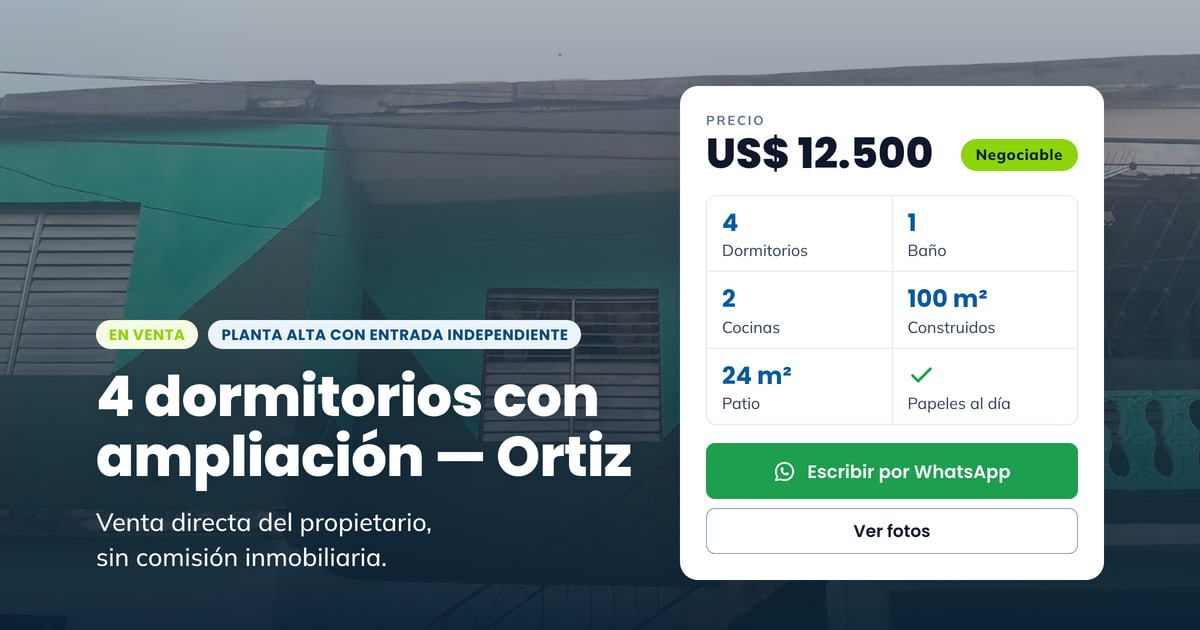
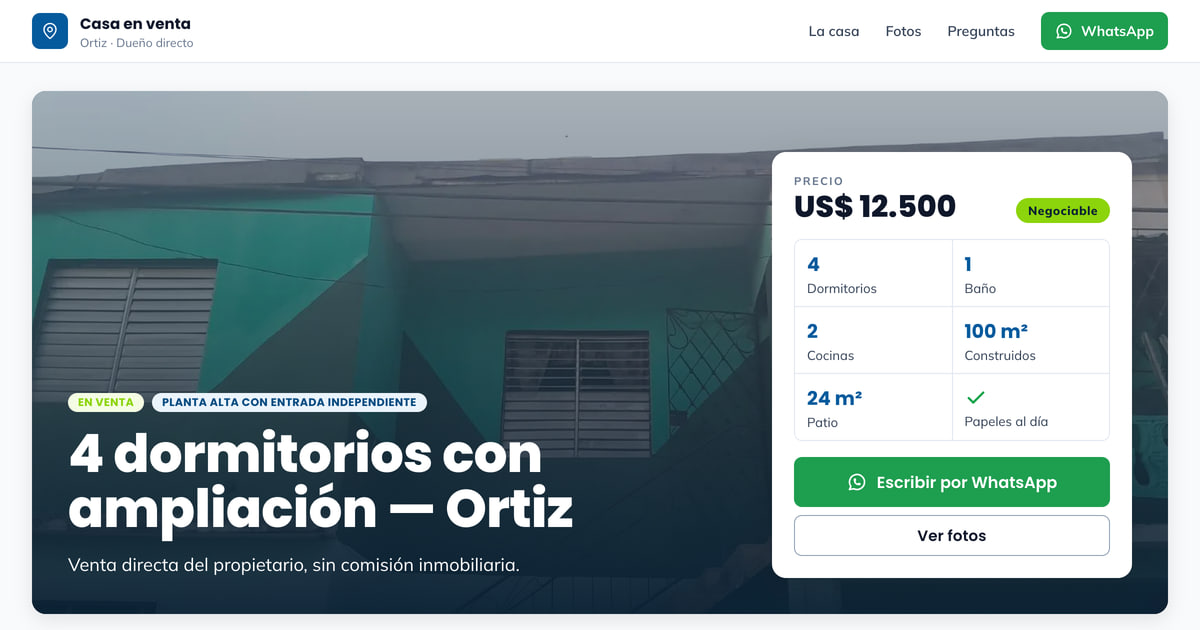
feat(seo): imagen OG = captura real de header + hero; títulos y descripciones SEO
Claude-Session: https://claude.ai/code/session_01Dem9Z62FTEcVFnxrhjm7Pk

diff --git a/src/app/data/casa.ts b/src/app/data/casa.ts
@@ -118,13 +118,17 @@ export const FAQS: readonly Faq[] = [
   },
 ];
 
+/**
+ * Textos para buscadores y redes. Largos pensados para no cortarse:
+ * title ≤ 60 caracteres, description ≤ 160 (Google), ogTitle ≤ 70 (WhatsApp/Facebook).
+ */
 export const SEO = {
-  title: 'Casa 4 dormitorios con ampliación en venta – directo del propietario',
-  description: `Casa de 4 dormitorios con ampliación en venta en ${CASA.barrio}. ${CASA.precio}. Venta directa del propietario, sin comisión inmobiliaria.`,
-  ogTitle: `4 dormitorios con ampliación — ${CASA.barrio} · ${CASA.precio}`,
+  title: `Casa en venta en ${CASA.barrio} · 4 dormitorios · ${CASA.precio}`,
+  description: `Casa de 4 dormitorios con ampliación en venta en ${CASA.barrio}. ${CASA.precio} ${CASA.condicion.toLowerCase()}, papeles al día. Venta directa del propietario, sin comisión inmobiliaria.`,
+  ogTitle: `Casa en venta en ${CASA.barrio} · 4 dormitorios con ampliación · ${CASA.precio}`,
   ogDescription:
-    'Venta directa del propietario, sin comisión inmobiliaria. 4 dormitorios, 2 cocinas, papeles al día.',
-  /** Imagen 1200×630 generada por scripts/optimize-images.mjs */
+    'Venta directa del propietario, sin comisión. 4 dormitorios, 2 cocinas, 100 m², patio de 24 m² y papeles al día. Escribinos por WhatsApp y coordiná una visita.',
+  /** Captura 1200×630 del header + hero del sitio, generada por `npm run og` (scripts/og-image.mjs). */
   ogImage: '/og/og-frente.jpg',
-  ogImageAlt: `Frente de la casa en venta en ${CASA.barrio}`,
+  ogImageAlt: `Casa en venta en ${CASA.barrio}: 4 dormitorios con ampliación, ${CASA.precio}`,
 } as const;

diff --git a/src/index.html b/src/index.html
@@ -2,7 +2,7 @@
 <html lang="es">
   <head>
     <meta charset="utf-8" />
-    <title>Casa 4 dormitorios con ampliación en venta – directo del propietario</title>
+    <title>Casa en venta en Ortiz · 4 dormitorios · US$ 12.500</title>
     <base href="/" />
     <meta name="viewport" content="width=device-width, initial-scale=1, viewport-fit=cover" />
     <meta name="theme-color" content="#071F33" />
